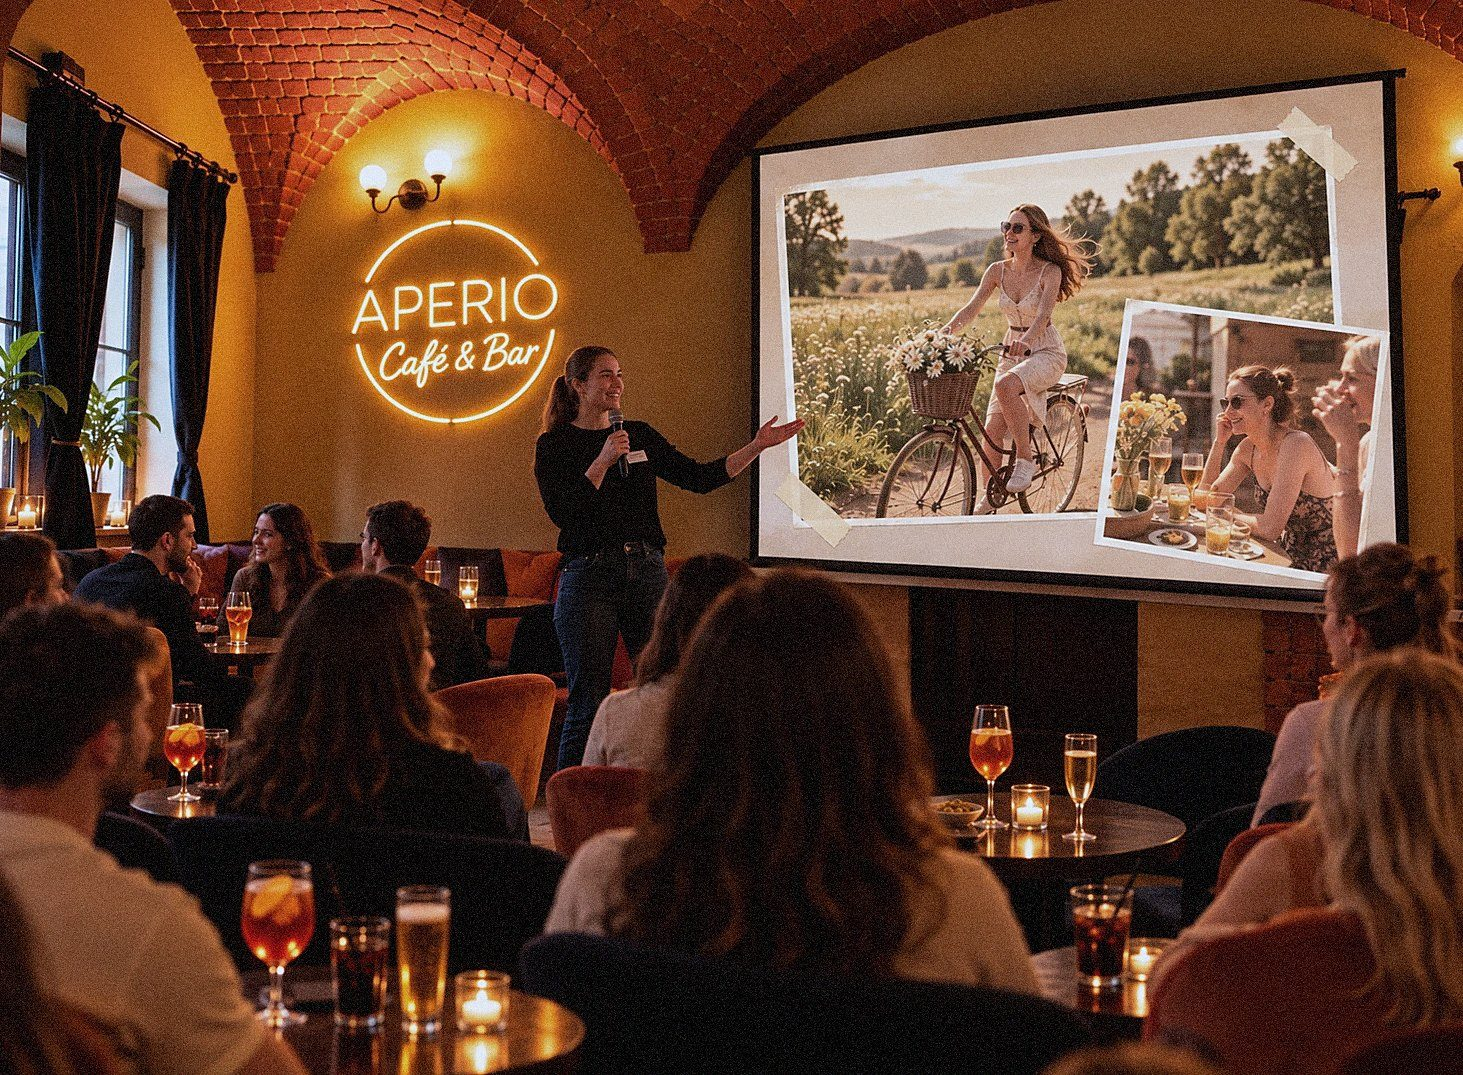
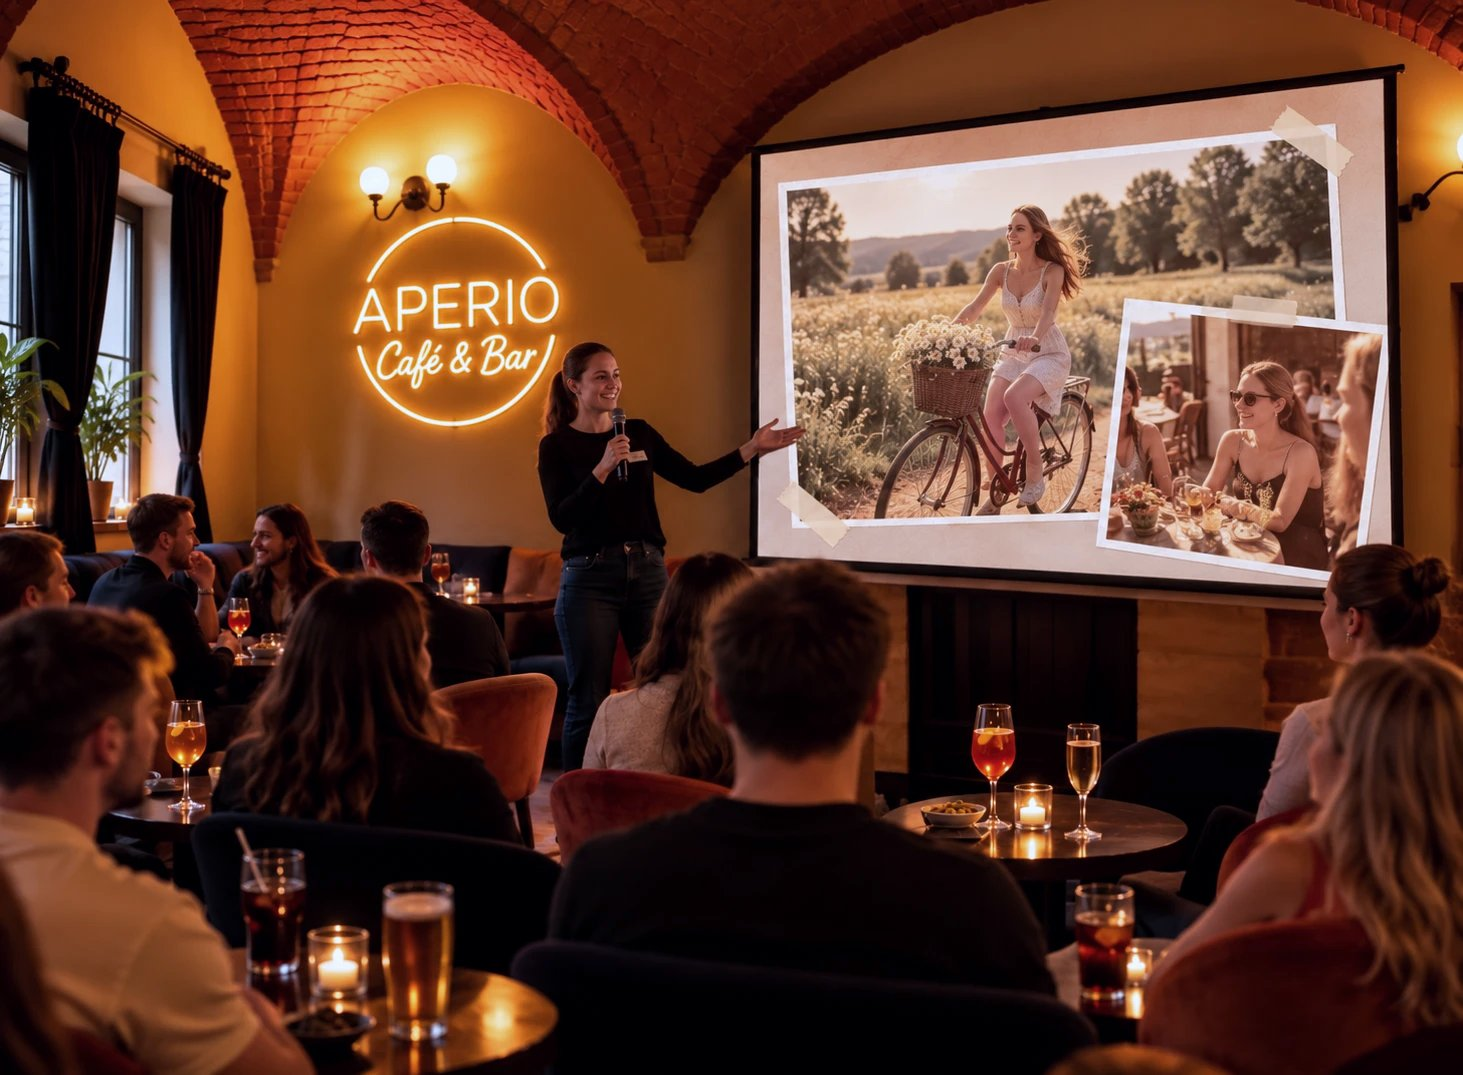
SINGLES SHOW: nová fotka v hero, zjemnená oranžová

diff --git a/single-show.html b/single-show.html
@@ -82,7 +82,7 @@
           </ul>
         </div>
         <div class="show-intro-photo">
-          <img fetchpriority="high" src="img/show-hero-aperio.webp?v=4" srcset="img/show-hero-aperio-800.webp?v=4 800w, img/show-hero-aperio.webp?v=4 1400w" sizes="(max-width: 760px) 100vw, 50vw" alt="Moderátorka v bare s mikrofónom ukazuje na plátno s fotkami, publikum sedí pri sviečkach" width="1463" height="1075">
+          <img fetchpriority="high" src="img/show-hero-aperio.webp?v=5" srcset="img/show-hero-aperio-800.webp?v=5 800w, img/show-hero-aperio.webp?v=5 1400w" sizes="(max-width: 760px) 100vw, 50vw" alt="Moderátorka v bare s mikrofónom ukazuje na plátno s fotkami, publikum sedí pri sviečkach" width="1463" height="1075">
           <p class="hand show-side-note show-intro-hand">Žiadne neosobné profily z appky ani nekonečné swipovanie.</p>
         </div>
       </div>
